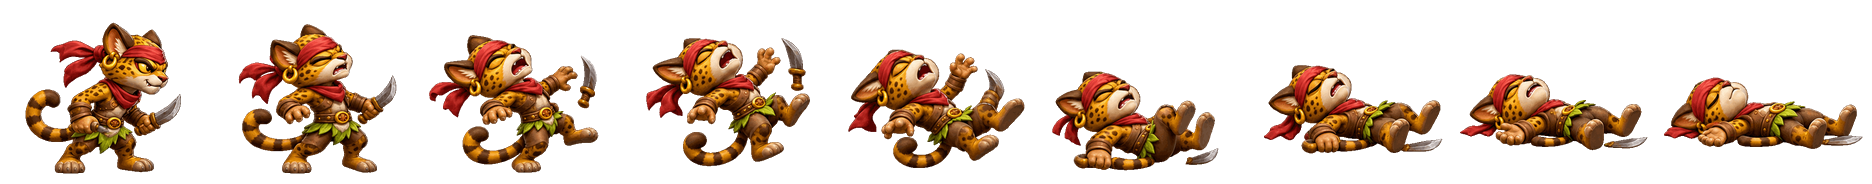
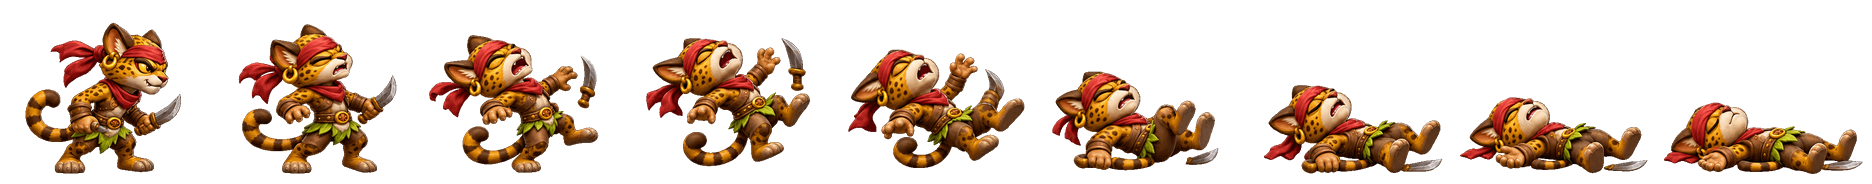
v1.07: ölüm animasyonları hızlandı, leopar ölüsü yere değiyor, golem ölüm animasyonu
Claude-Session: https://claude.ai/code/session_015fAnPNTPRnCrrXVbYZQW8j

Changed region(s): [[0.6506, 0.3533, 1.0, 0.9511]]

diff --git a/js/veri/assetlar.js b/js/veri/assetlar.js
@@ -41,5 +41,7 @@ ASSETLER.yarasaOl = {"w": 203, "h": 191, "ayak": 171, "merkez": 99, "kare": 9};
 
 
 
+
+
 // Düşman ek şeritleri (araclar/ekKareKes.py): hücre, ayak çizgisi, fps (ana şerit ölçeğinde)
-ASSETLER.ekKare = {"bitkiOl": {"dusman": "bitki", "w": 228, "h": 228, "ayak": 210, "kare": 12, "fps": 9, "dongu": false}, "bitkiBekle": {"dusman": "bitki", "w": 224, "h": 233, "ayak": 216, "kare": 12, "fps": 7, "dongu": true}, "kertenkeleOl": {"dusman": "kertenkele", "w": 206, "h": 206, "ayak": 188, "kare": 12, "fps": 7, "dongu": false}, "kediOl": {"dusman": "kedi", "w": 208, "h": 184, "ayak": 174, "kare": 9, "fps": 7, "dongu": false}, "domuzOl": {"dusman": "domuz", "w": 243, "h": 218, "ayak": 200, "kare": 9, "fps": 6, "dongu": false}, "kopekOl": {"dusman": "kopek", "w": 138, "h": 138, "ayak": 132, "kare": 8, "fps": 7, "dongu": false}, "maymunOl": {"dusman": "maymun", "w": 148, "h": 148, "ayak": 140, "kare": 10, "fps": 7, "dongu": false}, "domuzSaldir": {"dusman": "domuz", "w": 243, "h": 216, "ayak": 204, "kare": 9, "fps": 12, "dongu": false}, "ficiOl": {"dusman": "fici", "w": 239, "h": 232, "ayak": 199, "kare": 9, "fps": 7, "dongu": false}, "bossOl": {"dusman": "boss", "w": 567, "h": 189, "ayak": 188, "kare": 9, "fps": 6, "dongu": false}, "buyucuOl": {"dusman": "buyucu", "w": 241, "h": 241, "ayak": 227, "kare": 8, "fps": 7, "dongu": false}};
+ASSETLER.ekKare = {"bitkiOl": {"dusman": "bitki", "w": 228, "h": 228, "ayak": 210, "kare": 12, "fps": 14, "dongu": false}, "bitkiBekle": {"dusman": "bitki", "w": 224, "h": 233, "ayak": 216, "kare": 12, "fps": 7, "dongu": true}, "kertenkeleOl": {"dusman": "kertenkele", "w": 206, "h": 206, "ayak": 188, "kare": 12, "fps": 15, "dongu": false}, "kediOl": {"dusman": "kedi", "w": 208, "h": 184, "ayak": 174, "kare": 9, "fps": 12, "dongu": false}, "domuzOl": {"dusman": "domuz", "w": 243, "h": 218, "ayak": 200, "kare": 9, "fps": 11, "dongu": false}, "kopekOl": {"dusman": "kopek", "w": 138, "h": 138, "ayak": 132, "kare": 8, "fps": 12, "dongu": false}, "maymunOl": {"dusman": "maymun", "w": 148, "h": 148, "ayak": 140, "kare": 10, "fps": 12, "dongu": false}, "domuzSaldir": {"dusman": "domuz", "w": 243, "h": 216, "ayak": 204, "kare": 9, "fps": 12, "dongu": false}, "ficiOl": {"dusman": "fici", "w": 239, "h": 232, "ayak": 199, "kare": 9, "fps": 12, "dongu": false}, "bossOl": {"dusman": "boss", "w": 567, "h": 189, "ayak": 188, "kare": 9, "fps": 10, "dongu": false}, "buyucuOl": {"dusman": "buyucu", "w": 241, "h": 241, "ayak": 227, "kare": 8, "fps": 12, "dongu": false}, "golemOl": {"dusman": "golem", "w": 266, "h": 266, "ayak": 248, "kare": 12, "fps": 12, "dongu": false}};

diff --git a/js/sahneler/BootSahnesi.js b/js/sahneler/BootSahnesi.js
@@ -116,7 +116,7 @@ class BootSahnesi extends Phaser.Scene {
       });
     });
     // v0.98: yarasa ölümü — 0–3 havada (bir kez), 5–8 yere düşünce (bir kez); 3 düşerken, 4 yere yaklaşınca kare olarak
-    const yk = (k, kareler) => this.anims.create({ key: 'd_yarasaOl_' + k, frames: kareler.map(frame => ({ key: 'd_yarasaOl', frame })), frameRate: 8, repeat: 0 });
+    const yk = (k, kareler) => this.anims.create({ key: 'd_yarasaOl_' + k, frames: kareler.map(frame => ({ key: 'd_yarasaOl', frame })), frameRate: 12, repeat: 0 });   // v1.07: 8 → 12
     yk('hava', [0, 1, 2, 3]); yk('yer', [5, 6, 7, 8]);
     // v1.00: ek şeritler (araclar/ekKareKes.py): <düşman>Ol → d_<düşman>Ol; <düşman>Bekle / <düşman>Saldir vb. → d_<düşman>_<anim> (eskisinin yerine)
     Object.entries(ASSETLER.ekKare).forEach(([ad, E]) => {

diff --git a/js/ayarlar.js b/js/ayarlar.js
@@ -1,6 +1,6 @@
 // Popeye Tales (Atari) — oyun ayarları. Tüm uzunluklar dünya pikseli (1 karo = 32 px), süreler saniye.
 const CONFIG = {
-  surum: 'v1.06',
+  surum: 'v1.07',
   bayrakBoy: 57.6,      // kontrol noktası bayrağının boyu
   ustUsteGomme: 4,
   tasYukari: 3,         // kırılır taşlar (kasa hariç) yerde bu kadar yukarıda çizilir (bölümde tasZeminYukari varsa o)

diff --git a/araclar/ekKareKes.py b/araclar/ekKareKes.py
@@ -7,18 +7,21 @@ import numpy as np
 from PIL import Image, ImageSequence
 KOK = __file__.rsplit('/araclar/', 1)[0]
 EK = {   # ad: (düşman, kaynak GIF, fps, döngü)
-    'bitkiOl': ('bitki', 'bitki_ol.gif', 9, False),            # v0.99: yerinde ölüm
+    'bitkiOl': ('bitki', 'bitki_ol.gif', 14, False),            # v0.99: yerinde ölüm
     'bitkiBekle': ('bitki', 'bitki_bekle.gif', 7, True),       # v1.00: saldırmazken duruş
-    'kertenkeleOl': ('kertenkele', 'kertenkele_ol.gif', 7, False),   # v1.00: yerinde ölüm, sonra 1 sn bekleyip solar
-    'kediOl': ('kedi', 'kedi_ol.gif', 7, False),               # v1.00: bıçaklı leopar
-    'domuzOl': ('domuz', 'domuz_ol.gif', 6, False),            # v1.00: yaban domuzu
-    'kopekOl': ('kopek', 'kopek_ol.gif', 7, False),            # v1.01: mızraklı
-    'maymunOl': ('maymun', 'maymun_ol.gif', 7, False, -2),     # v1.02: son 2 kare kullanılmaz
+    'kertenkeleOl': ('kertenkele', 'kertenkele_ol.gif', 15, False),   # v1.00: yerinde ölüm, sonra 1 sn bekleyip solar
+    'kediOl': ('kedi', 'kedi_ol.gif', 12, False),               # v1.00: bıçaklı leopar
+    'domuzOl': ('domuz', 'domuz_ol.gif', 11, False),            # v1.00: yaban domuzu
+    'kopekOl': ('kopek', 'kopek_ol.gif', 12, False),            # v1.01: mızraklı
+    'maymunOl': ('maymun', 'maymun_ol.gif', 12, False, -2),     # v1.02: son 2 kare kullanılmaz
     'domuzSaldir': ('domuz', 'domuz_saldir.gif', 12, False),   # v1.03: gürz vuruşu (eskisinin yerine); 7. karede iner
-    'ficiOl': ('fici', 'fici_ol.gif', 7, False),               # v1.04: dikenli dönen fıçı
-    'bossOl': ('boss', 'boss_ol.gif', 6, False),               # v1.05: 1. bölüm patronu
-    'buyucuOl': ('buyucu', 'buyucu_ol.gif', 7, False),         # v1.06: büyücü
+    'ficiOl': ('fici', 'fici_ol.gif', 12, False),               # v1.04: dikenli dönen fıçı
+    'bossOl': ('boss', 'boss_ol.gif', 10, False),               # v1.05: 1. bölüm patronu
+    'buyucuOl': ('buyucu', 'buyucu_ol.gif', 12, False),         # v1.06: büyücü
+    'golemOl': ('golem', 'golem_ol.gif', 12, False),           # v1.07: mor kaya golem
 }
+# v1.07: ölüm fps'leri hızlandırıldı (yavaş çekim kalıyordu)
+YER = {'kediOl': 6}   # bu kareden itibaren kare alt kenarı ilk karenin altına indirilir (ölüsü yere değsin)
 ap = KOK + '/js/veri/assetlar.js'; s = open(ap, encoding='utf8').read()
 D = json.loads(re.search(r'ASSETLER.dusman = (\{.*\});', s).group(1))
 meta = {}
@@ -32,7 +35,8 @@ for ad, (dus, gif, fps, dongu, *son) in EK.items():   # son: kareleri bu indekst
     serit = Image.new('RGBA', (W * len(fr), H))
     for i, f in enumerate(fr):
         a = np.array(f.resize((W, H), Image.LANCZOS)); a[a[:, :, 3] < 30] = 0
-        c = Image.new('RGBA', (W, H)); c.paste(Image.fromarray(a), (dx, 0)); serit.paste(c, (i * W, 0))
+        dy = round((g0[3] - f.getbbox()[3]) * r) if i >= YER.get(ad, 99) else 0
+        c = Image.new('RGBA', (W, H)); c.paste(Image.fromarray(a), (dx, dy)); serit.paste(c, (i * W, 0))
     serit.save(KOK + '/assets/dusman/' + ad + '.png', optimize=True)
     meta[ad] = {'dusman': dus, 'w': W, 'h': H, 'ayak': round(g0[3] * r), 'kare': len(fr), 'fps': fps, 'dongu': dongu}
 s = re.sub(r'\n// Bitki ölüm[^\n]*\nASSETLER.bitkiOl = [^\n]*;\n', '\n', s)

diff --git a/OYUN.md b/OYUN.md
@@ -144,4 +144,4 @@ Görünür boy `CONFIG.oyuncu.boy` 66.21. Oyuncu sayfaları v0.78'den beri 2 kat
 - **Bastonla zıplama (v0.95)**: açılınca / havadayken `pogoHava` karesi `kaynak/oyuncu_pogoHava.png` (karakter boyu şapka genişliğine göre eskisiyle aynı, baston ucu ayak çizgisinde). Sekme kareleri eski.
 - **Tek / yığın itme (v0.96)**: önde tek nesne varsa `itAlt` (`kaynak/oyuncu_itAlt.gif`, eller aşağıda; 1–7 döngü, 8. kare dururken `itAltDur`); üst üste 2+ nesne varsa eski `it` / `itDur` (eller yukarıda) ve üstteki(ler) alttakiyle birlikte itilir (`yiginBul`). oyuncu2.png 6 satır.
 - **Yarasa ölümü (v0.98)**: `kaynak/yarasa_ol.gif` → `dusman/yarasaOl.png` (`araclar/yarasaOlKes.py`). 1–4. kareler havada, 4. karede yere düşer, yere 30 px kala 5. kare, yere değince 6–9, 1 sn sonra solarak kaybolur (`yarasaOlum`).
-- **Ek düşman şeritleri (v1.00, `araclar/ekKareKes.py`)**: ayrı GIF'lerden `dusman/<ad>.png`, ana şerit ölçeğinde; geçişte origin/gövde ofseti ayarlanır. `bitkiBekle` (çiçek saldırmazken duruş; saldırı eski), ölümler olduğu yerde: `bitkiOl` (biter → yok olur), `kertenkeleOl` (bukalemun), `kediOl` (bıçaklı leopar), `domuzOl` (yaban domuzu), `kopekOl` (mızraklı, v1.01), `maymunOl` (maymun, son 2 kare hariç, v1.02), `domuzSaldir` (yaban domuzu vuruşu, eskisi yerine; 0.8 sn, vuruş 0.5. sn, v1.03), `ficiOl` (dikenli fıçı, v1.04), `bossOl` (1. bölüm patronu, v1.05; solunca çıkış açılır), `buyucuOl` (büyücü, v1.06) — son karede 1 sn kalıp solar.
+- **Ek düşman şeritleri (v1.00, `araclar/ekKareKes.py`)**: ayrı GIF'lerden `dusman/<ad>.png`, ana şerit ölçeğinde; geçişte origin/gövde ofseti ayarlanır. `bitkiBekle` (çiçek saldırmazken duruş; saldırı eski), ölümler olduğu yerde: `bitkiOl` (biter → yok olur), `kertenkeleOl` (bukalemun), `kediOl` (bıçaklı leopar), `domuzOl` (yaban domuzu), `kopekOl` (mızraklı, v1.01), `maymunOl` (maymun, son 2 kare hariç, v1.02), `domuzSaldir` (yaban domuzu vuruşu, eskisi yerine; 0.8 sn, vuruş 0.5. sn, v1.03), `ficiOl` (dikenli fıçı, v1.04), `bossOl` (1. bölüm patronu, v1.05; solunca çıkış açılır), `buyucuOl` (büyücü, v1.06), `golemOl` (mor kaya, v1.07). v1.07: tüm ölümler hızlandı (10–15 fps, yarasa 12); leoparın yerdeki kareleri yere indirildi (`YER`) — son karede 1 sn kalıp solar.
